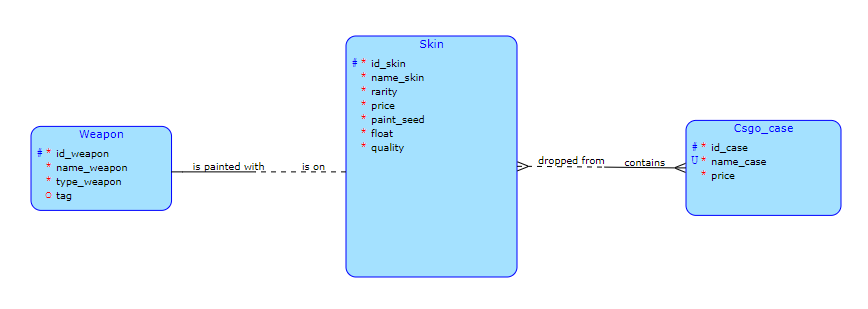
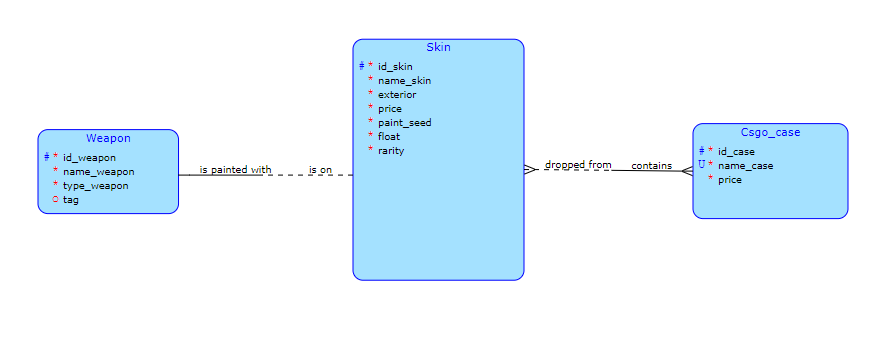
rename quality attribute to exterior

Changed region(s): [[0.0311, 0.0874, 0.9954, 0.9029]]

diff --git a/cs_skin_system/src/main/kotlin/cz/cvut/fit/tjv/cs_skin_system/application/SkinService.kt b/cs_skin_system/src/main/kotlin/cz/cvut/fit/tjv/cs_skin_system/application/SkinService.kt
@@ -6,6 +6,7 @@ import jakarta.transaction.Transactional
 import org.springframework.beans.factory.annotation.Autowired
 import org.springframework.stereotype.Service
 import java.util.NoSuchElementException
+import kotlin.math.min
 
 @Service
 @Transactional
@@ -36,9 +37,29 @@ class SkinService ( @Autowired var skinRepository: JPASkinRepository,
     }
 
     override fun createSkin(skin: Skin, caseId: Long?): Skin {
-        if (skinRepository.existsByNameAndPaintSeedAndFloatAndWeaponId(skin.name, skin.paintSeed, skin.float, skin.weapon?.id!!)) {
+        val weaponId = skin.weapon?.id
+        if (weaponId != null && skinRepository
+            .existsByNameAndPaintSeedAndFloatAndWeaponId(
+                skin.name,
+                skin.paintSeed,
+                skin.float,
+                weaponId)
+            ) {
             throw IllegalArgumentException("Skin already exists.")
         }
+
+        skin.exterior = when {
+            skin.float <= 0.07 -> "Factory New"
+            skin.float <= 0.15 -> "Minimal Wear"
+            skin.float <= 0.37 -> "Field-Tested"
+            skin.float <= 0.44 -> "Well-Worn"
+            else -> {
+                skin.float = min(skin.float, 1.0)
+                "Battle-Scarred"
+            }
+        }
+        skin.paintSeed = min(skin.paintSeed, 1000)
+
         val createdSkin = skinRepository.save(skin)
         if (caseId != null) {
             csgoCaseService.updateCsgoCase(caseId, skin.id, true)

diff --git a/cs_skin_system/src/test/kotlin/cz/cvut/fit/tjv/cs_skin_system/persistent/JPASkinRepositoryTest.kt b/cs_skin_system/src/test/kotlin/cz/cvut/fit/tjv/cs_skin_system/persistent/JPASkinRepositoryTest.kt
@@ -27,7 +27,7 @@ class JPASkinRepositoryTest @Autowired constructor(
         val mySkin = Skin().apply {
             name = "Fire Beast"
             rarity = "covert"
-            quality = "Extraordinary"
+            exterior = "Field-Tested"
             price = 250.0
             paintSeed = 123
             float = .255
@@ -54,7 +54,7 @@ class JPASkinRepositoryTest @Autowired constructor(
 
         assertThat(skinFromRepo.name).isEqualTo(mySkin.name)
         assertThat(skinFromRepo.rarity).isEqualTo(mySkin.rarity)
-        assertThat(skinFromRepo.quality).isEqualTo(mySkin.quality)
+        assertThat(skinFromRepo.exterior).isEqualTo(mySkin.exterior)
         assertThat(skinFromRepo.price).isEqualTo(mySkin.price)
         assertThat(skinFromRepo.paintSeed).isEqualTo(mySkin.paintSeed)
         assertThat(skinFromRepo.float).isEqualTo(mySkin.float)

diff --git a/cs_skin_system/src/main/kotlin/cz/cvut/fit/tjv/cs_skin_system/domain/Skin.kt b/cs_skin_system/src/main/kotlin/cz/cvut/fit/tjv/cs_skin_system/domain/Skin.kt
@@ -23,9 +23,9 @@ class Skin {
     @NotBlank
     var rarity: String = ""
 
-    @Column(name = "quality")
+    @Column(name = "exterior")
     @NotBlank
-    var quality: String = ""
+    var exterior: String = ""
 
     @Column(name = "price")
     @NotNull
